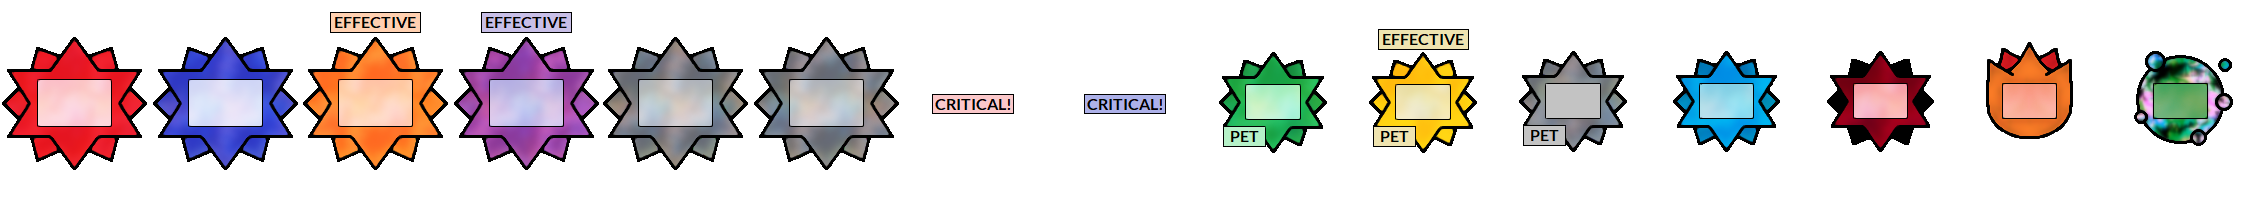
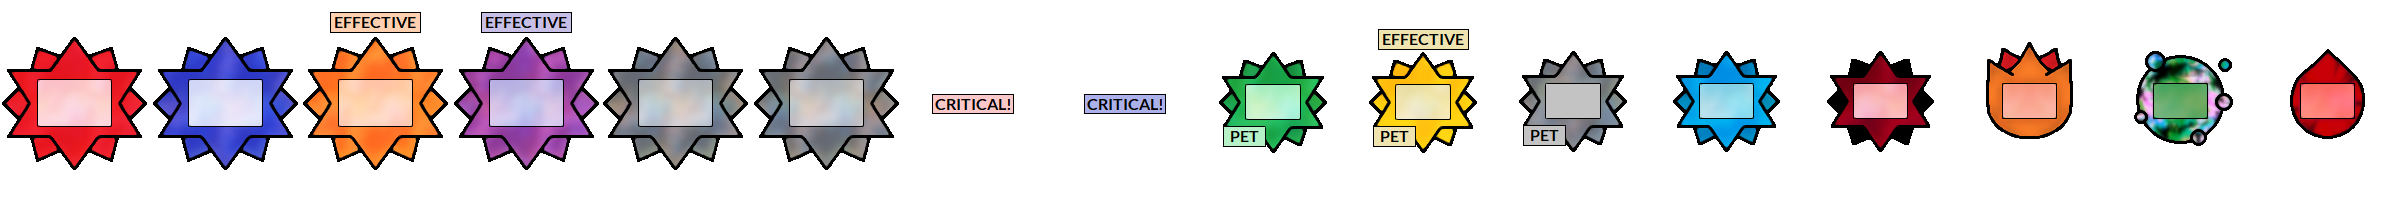
New combat stuff.

diff --git a/main.py b/main.py
@@ -8548,7 +8548,7 @@ if __name__ == "__main__":
     received_damage_overlay = UiElement("received damage overlay", 125, 275, graphic_dict["received_damage_img"])
     burn_damage_overlay = UiElement("burn damage overlay", 250, 275, graphic_dict["burn_damage_img"])
     poison_damage_overlay = UiElement("poison damage overlay", 350, 275, graphic_dict["poison_damage_img"])
-    bleed_damage_overlay = UiElement("bleed damage overlay", 275, 375, graphic_dict["burn_damage_img"])
+    bleed_damage_overlay = UiElement("bleed damage overlay", 300, 375, graphic_dict["bleed_damage_img"])
     interaction_popup = UiElement("interaction popup", 125, 275, graphic_dict["popup_interaction"])
     loot_popup = UiElement("loot popup", 171, 528, graphic_dict["popup_loot"])
     button_highlight = UiElement("button_highlight", 200, 200, graphic_dict["main high"])
@@ -17147,20 +17147,28 @@ if __name__ == "__main__":
                                     if player.current_zone == "castle lair":
                                         screen.blit(dreth_battle_screen, (0, 0))
 
-                                    if time_of_day == 0:
-                                        screen.blit(dawn, (0, 0))
-                                    if time_of_day == 1:
-                                        screen.blit(early_morning, (0, 0))
-                                    if time_of_day == 2:
-                                        screen.blit(morning, (0, 0))
-                                    if time_of_day == 4:
-                                        screen.blit(early_afternoon, (0, 0))
-                                    if time_of_day == 5:
-                                        screen.blit(afternoon, (0, 0))
-                                    if time_of_day == 6:
-                                        screen.blit(dusk, (0, 0))
-                                    if time_of_day == 7:
-                                        screen.blit(night, (0, 0))
+                                    if (player.current_zone == "marrow"
+                                            or player.current_zone == "marrow ramps east end"
+                                            or player.current_zone == "ectrenos_front"
+                                            or player.current_zone == "terra trail"
+                                            or player.current_zone == "stardust"
+                                            or player.current_zone == "korlok"
+                                            or player.current_zone == "seldon"):
+
+                                        if time_of_day == 0:
+                                            screen.blit(dawn, (0, 0))
+                                        if time_of_day == 1:
+                                            screen.blit(early_morning, (0, 0))
+                                        if time_of_day == 2:
+                                            screen.blit(morning, (0, 0))
+                                        if time_of_day == 4:
+                                            screen.blit(early_afternoon, (0, 0))
+                                        if time_of_day == 5:
+                                            screen.blit(afternoon, (0, 0))
+                                        if time_of_day == 6:
+                                            screen.blit(dusk, (0, 0))
+                                        if time_of_day == 7:
+                                            screen.blit(night, (0, 0))
 
                                     try:
                                         if not show_fire or not combat_happened:
@@ -17205,20 +17213,28 @@ if __name__ == "__main__":
                                     if player.current_zone == "castle lair":
                                         game_window.blit(dreth_battle_screen, (0, 0))
 
-                                    if time_of_day == 0:
-                                        game_window.blit(dawn, (0, 0))
-                                    if time_of_day == 1:
-                                        game_window.blit(early_morning, (0, 0))
-                                    if time_of_day == 2:
-                                        game_window.blit(morning, (0, 0))
-                                    if time_of_day == 4:
-                                        game_window.blit(early_afternoon, (0, 0))
-                                    if time_of_day == 5:
-                                        game_window.blit(afternoon, (0, 0))
-                                    if time_of_day == 6:
-                                        game_window.blit(dusk, (0, 0))
-                                    if time_of_day == 7:
-                                        game_window.blit(night, (0, 0))
+                                    if (player.current_zone == "marrow"
+                                            or player.current_zone == "marrow ramps east end"
+                                            or player.current_zone == "ectrenos_front"
+                                            or player.current_zone == "terra trail"
+                                            or player.current_zone == "stardust"
+                                            or player.current_zone == "korlok"
+                                            or player.current_zone == "seldon"):
+
+                                        if time_of_day == 0:
+                                            game_window.blit(dawn, (0, 0))
+                                        if time_of_day == 1:
+                                            game_window.blit(early_morning, (0, 0))
+                                        if time_of_day == 2:
+                                            game_window.blit(morning, (0, 0))
+                                        if time_of_day == 4:
+                                            game_window.blit(early_afternoon, (0, 0))
+                                        if time_of_day == 5:
+                                            game_window.blit(afternoon, (0, 0))
+                                        if time_of_day == 6:
+                                            game_window.blit(dusk, (0, 0))
+                                        if time_of_day == 7:
+                                            game_window.blit(night, (0, 0))
 
                                     try:
                                         if not show_fire or not combat_happened:
@@ -18081,9 +18097,9 @@ if __name__ == "__main__":
                                     if bleeding:
                                         try:
                                             bleed_damage_surf = level_up_font.render(str(combat_events["bleed_damage"]),
-                                                                                    True, "black", "white")
+                                                                                     True, "black", "white")
                                             bleed_damage_rect = bleed_damage_surf.get_rect()
-                                            bleed_damage_rect.center = (280, 375)
+                                            bleed_damage_rect.center = (302, 375)
                                         except KeyError:
                                             pass
 
@@ -23678,20 +23694,21 @@ if __name__ == "__main__":
                             if player.current_zone == "marrow":
                                 screen.blit(marrow_interaction_bg, (0, 0))
 
-                            if time_of_day == 0:
-                                screen.blit(dawn, (0, 0))
-                            if time_of_day == 1:
-                                screen.blit(early_morning, (0, 0))
-                            if time_of_day == 2:
-                                screen.blit(morning, (0, 0))
-                            if time_of_day == 4:
-                                screen.blit(early_afternoon, (0, 0))
-                            if time_of_day == 5:
-                                screen.blit(afternoon, (0, 0))
-                            if time_of_day == 6:
-                                screen.blit(dusk, (0, 0))
-                            if time_of_day == 7:
-                                screen.blit(night, (0, 0))
+                            if player.current_zone != "ectrenos":
+                                if time_of_day == 0:
+                                    screen.blit(dawn, (0, 0))
+                                if time_of_day == 1:
+                                    screen.blit(early_morning, (0, 0))
+                                if time_of_day == 2:
+                                    screen.blit(morning, (0, 0))
+                                if time_of_day == 4:
+                                    screen.blit(early_afternoon, (0, 0))
+                                if time_of_day == 5:
+                                    screen.blit(afternoon, (0, 0))
+                                if time_of_day == 6:
+                                    screen.blit(dusk, (0, 0))
+                                if time_of_day == 7:
+                                    screen.blit(night, (0, 0))
 
                             screen.blit(equipment_screen.surf, equipment_screen.rect)
                             screen.blit(offense_meter.surf, offense_meter.rect)
@@ -23792,20 +23809,21 @@ if __name__ == "__main__":
                             if player.current_zone == "marrow":
                                 game_window.blit(marrow_interaction_bg, (0, 0))
 
-                            if time_of_day == 0:
-                                game_window.blit(dawn, (0, 0))
-                            if time_of_day == 1:
-                                game_window.blit(early_morning, (0, 0))
-                            if time_of_day == 2:
-                                game_window.blit(morning, (0, 0))
-                            if time_of_day == 4:
-                                game_window.blit(early_afternoon, (0, 0))
-                            if time_of_day == 5:
-                                game_window.blit(afternoon, (0, 0))
-                            if time_of_day == 6:
-                                game_window.blit(dusk, (0, 0))
-                            if time_of_day == 7:
-                                game_window.blit(night, (0, 0))
+                            if player.current_zone != "ectrenos":
+                                if time_of_day == 0:
+                                    game_window.blit(dawn, (0, 0))
+                                if time_of_day == 1:
+                                    game_window.blit(early_morning, (0, 0))
+                                if time_of_day == 2:
+                                    game_window.blit(morning, (0, 0))
+                                if time_of_day == 4:
+                                    game_window.blit(early_afternoon, (0, 0))
+                                if time_of_day == 5:
+                                    game_window.blit(afternoon, (0, 0))
+                                if time_of_day == 6:
+                                    game_window.blit(dusk, (0, 0))
+                                if time_of_day == 7:
+                                    game_window.blit(night, (0, 0))
 
                             game_window.blit(equipment_screen.surf, equipment_screen.rect)
                             game_window.blit(offense_meter.surf, offense_meter.rect)

diff --git a/zone_ectrenos.py b/zone_ectrenos.py
@@ -1385,7 +1385,7 @@ def ectrenos_alcove(pygame, screen, graphic_dict, player, ectrenos_alcove_bg, el
                                                    in_npc_interaction, graphic_dict, osodark_battle_sprite,
                                                    osodark_battle_sprite, osodark_battle_sprite, False,
                                                    osodark_battle_sprite, 0, osodark_battle_sprite,
-                                                   osodark_battle_sprite, osodark_battle_sprite, False)
+                                                   osodark_battle_sprite, osodark_battle_sprite, False, False)
 
     # --------------------------------------------------------------------------------------------------
     for save_window in save_check_window:

diff --git a/graphics.py b/graphics.py
@@ -4995,6 +4995,7 @@ def load_graphics():
     loaded_dict["edge_health_img"] = damage_overlays_sheet[12]
     loaded_dict["burn_damage_img"] = damage_overlays_sheet[13]
     loaded_dict["poison_damage_img"] = damage_overlays_sheet[14]
+    loaded_dict["bleed_damage_img"] = damage_overlays_sheet[15]
     # worker 1 npc -----------------------------------------------------------------------------------------------------
     worker_1_url = resource_path('resources/art/sprites_worker_1.png')
     worker_1_sheet = sprite_sheet((50, 60), worker_1_url)
